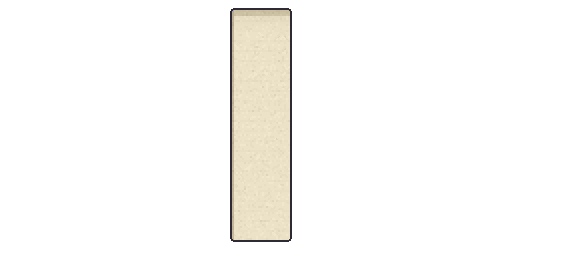
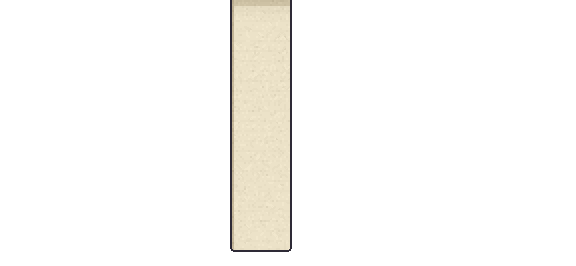
feat(homework): rule the homework sheet and tier list across the open book; thinner book cover
Found uncommitted on the PC (2026-10-20). Headless suite: ALL EDUSYSTEM CHECKS PASSED (3024 assertions).

Changed region(s): [[0.375, 0.0, 0.5312, 0.0602], [0.375, 0.9023, 0.5312, 0.9624]]

diff --git a/tools/lz_conform.py b/tools/lz_conform.py
@@ -207,14 +207,14 @@ def main(argv):
         build_palette()
         return 0
     paths = [a for a in argv if not a.startswith("--")]
-    if len(paths) != 2:
-        print(__doc__)
-        return 2
     grid = (16, 24)
     if "--grid" in argv:
         gw, gh = argv[argv.index("--grid") + 1].lower().split("x")
         grid = (int(gw), int(gh))
         paths = [p for p in paths if p != argv[argv.index("--grid") + 1]]
+    if len(paths) != 2:   # checked AFTER the grid value is taken out of the list
+        print(__doc__)
+        return 2
     if not os.path.exists(PALETTE):
         sys.exit("tools/limezu_palette.json is missing -- run `python tools/lz_conform.py --build-palette` once (needs the packs)")
     img = conform(paths[0], grid, "--nearest" in argv, "--no-keyline" not in argv)

diff --git a/tools/make_ui.py b/tools/make_ui.py
@@ -70,8 +70,8 @@ def _rect(im, x0, y0, x1, y1, c):
             im.putpixel((x, y), c if len(c) == 4 else c + (255,))
 
 
-MARGIN = 9          # how much cover shows outside the paper, all round
-LEAVES = 5          # how many page edges show in the stack down each side
+MARGIN = 4          # how much cover shows outside the paper, all round (was 9: too thick)
+LEAVES = 4          # how many page edges show in the stack down each side
 
 
 def _shift(c, d):
